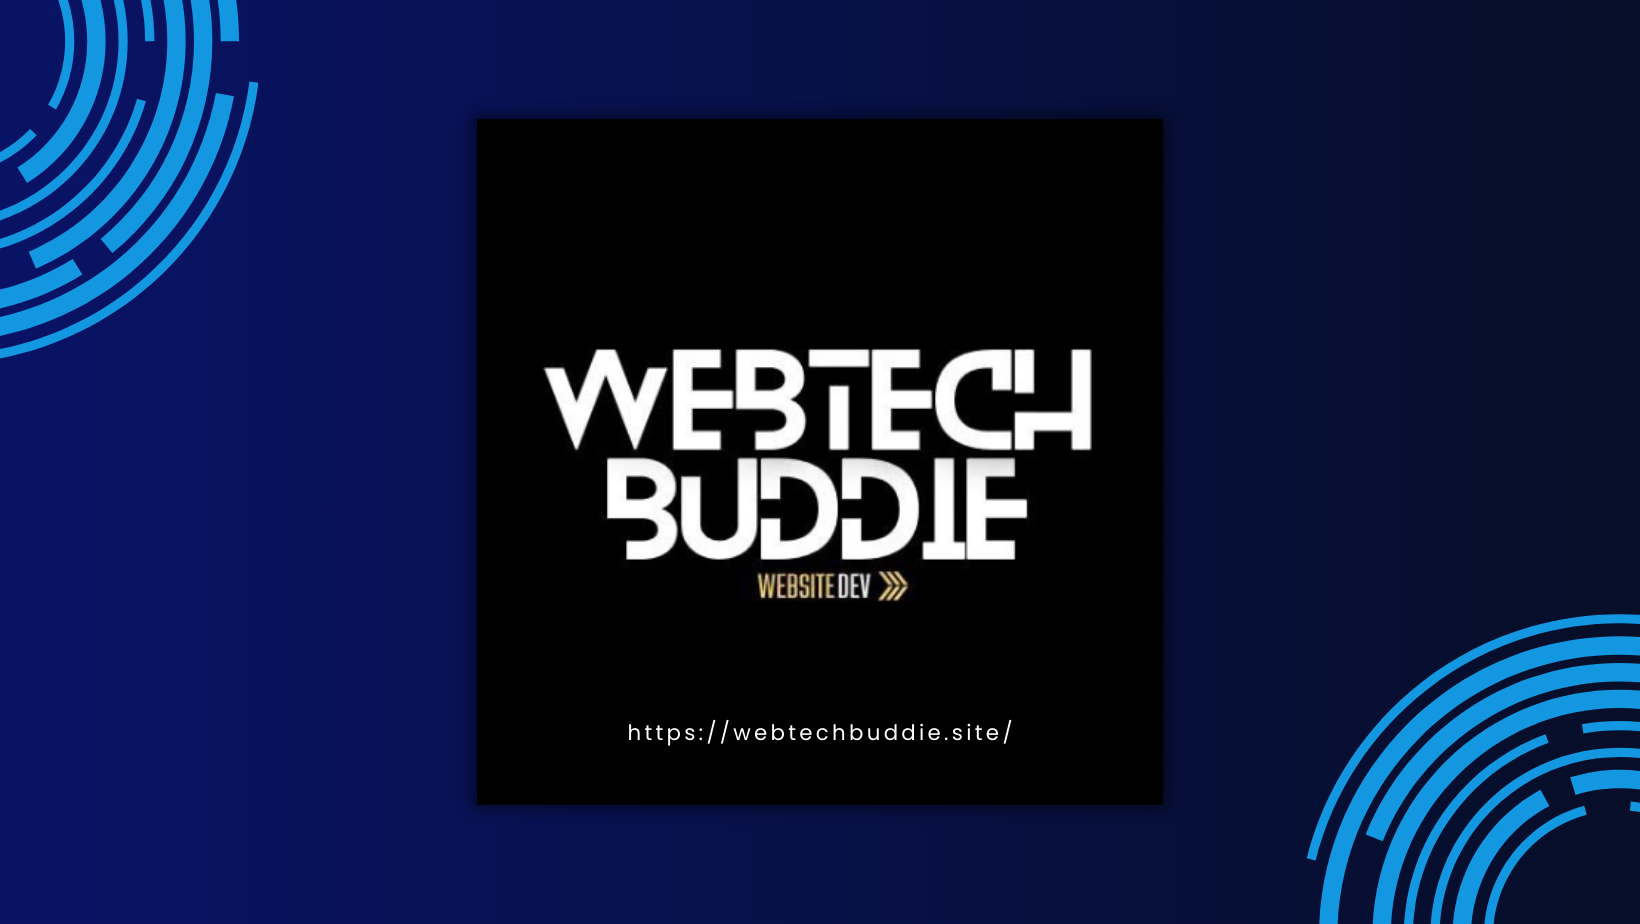
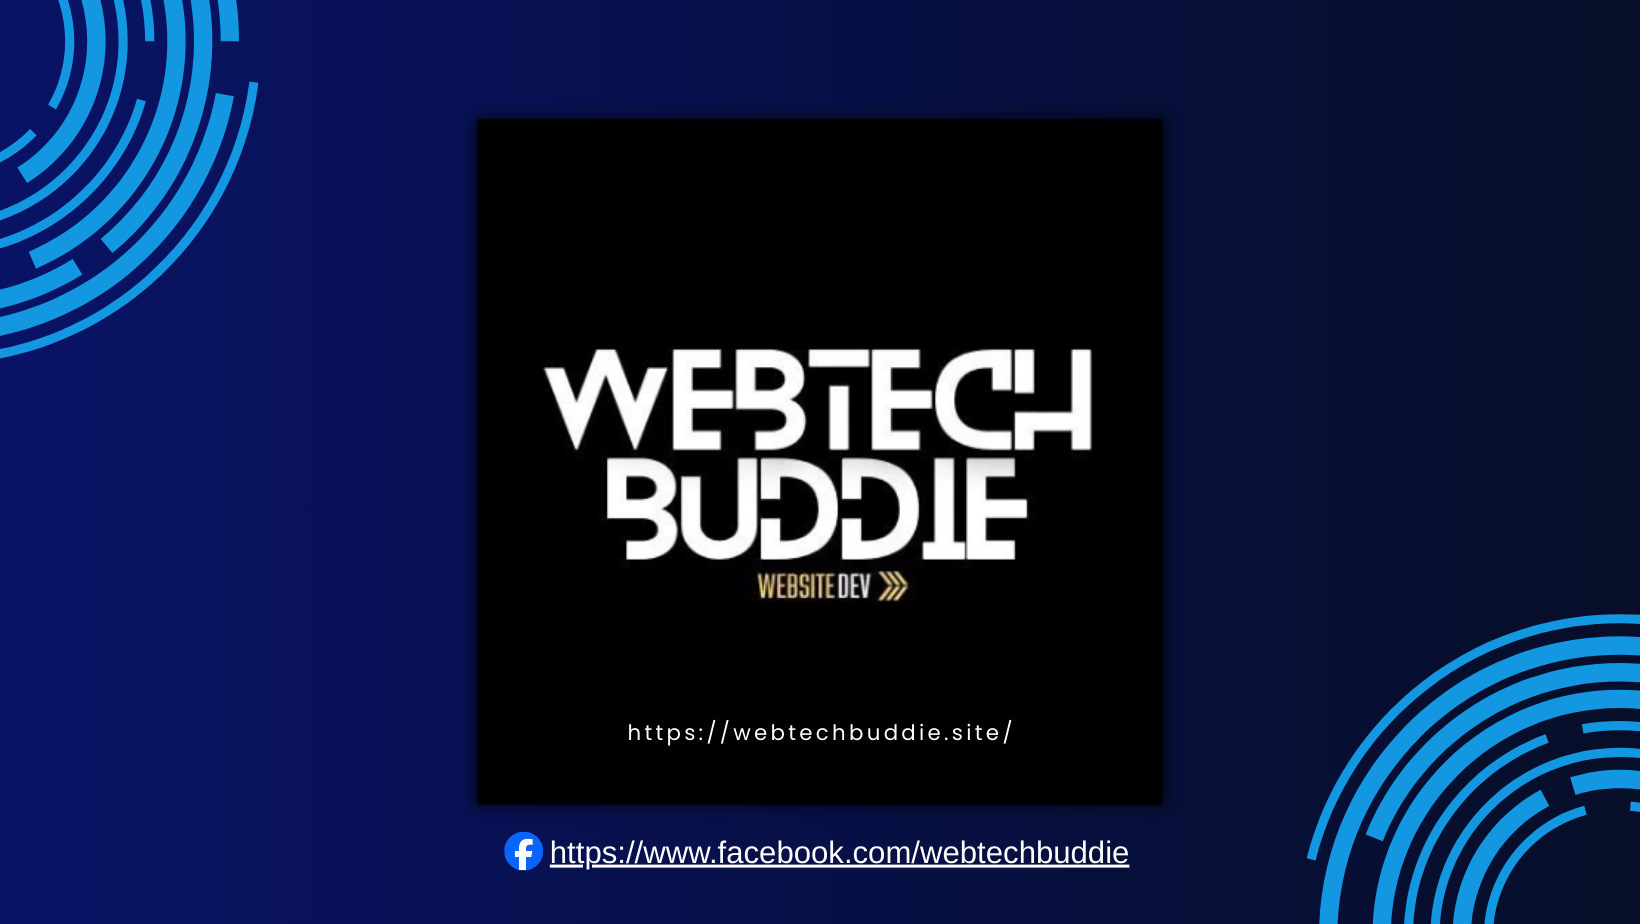
polished

Changed region(s): [[0.311, 0.8788, 0.6841, 0.9394]]

diff --git a/src/data/projects.ts b/src/data/projects.ts
@@ -90,7 +90,7 @@ export const projects: Project[] = [
       {
         title: "User Side: Home Page",
         description:
-          "Landing page with company mission, values, services, testimonials, and a contact form. Responsive layout with device-mockup style project showcase. [https://www.facebook.com/webtechbuddie]",
+          "Landing page with company mission, values, services, testimonials, and a contact form. Responsive layout with device-mockup style project showcase.",
         imageUrl: webtechHomePage,
       },
       {

diff --git a/src/data/experiences.ts b/src/data/experiences.ts
@@ -8,7 +8,7 @@ export const experiences: ExperienceItem[] = [
     description: [
       "Built and updated websites for small businesses and personal projects.",
       "Translated client requirements into wireframes, mockups, and working prototypes.",
-      "Collaborated with clients to deliver custom UI/UX solutions.",
+      "Handled both UI design and coding to ensure websites looked good and worked well",
     ],
   },
   {
